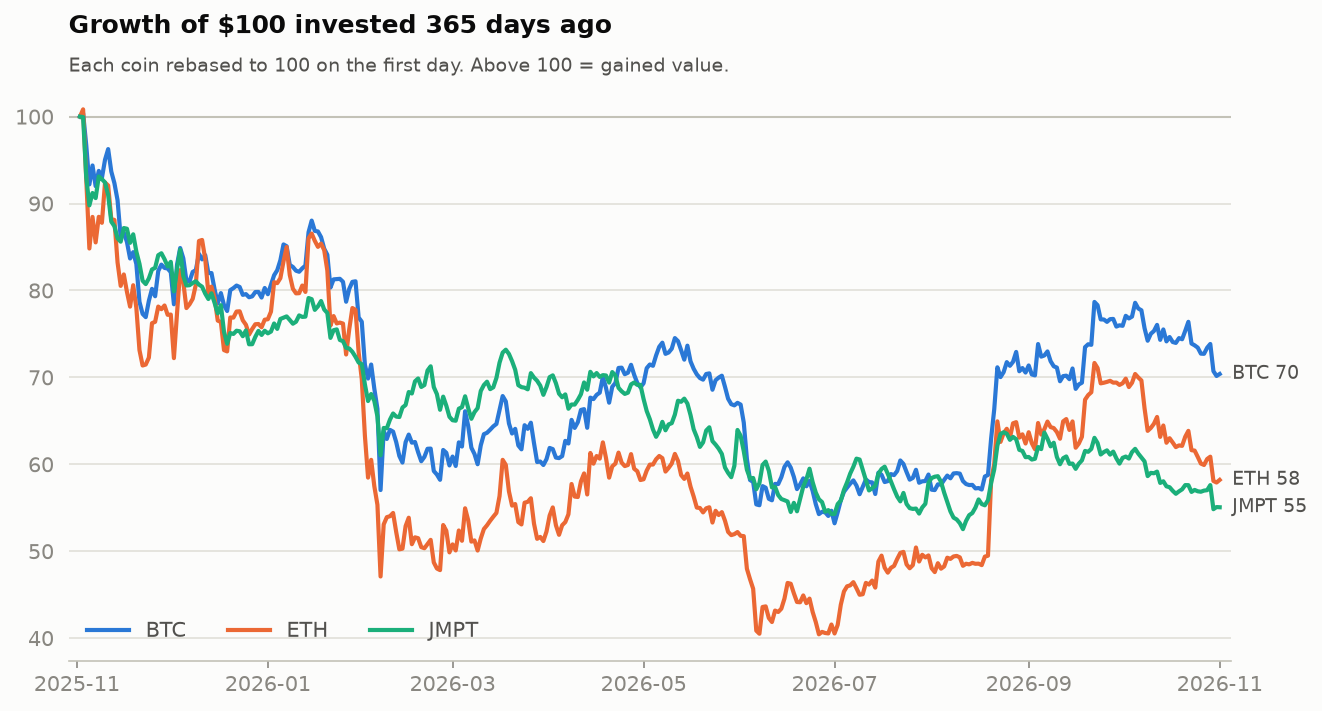
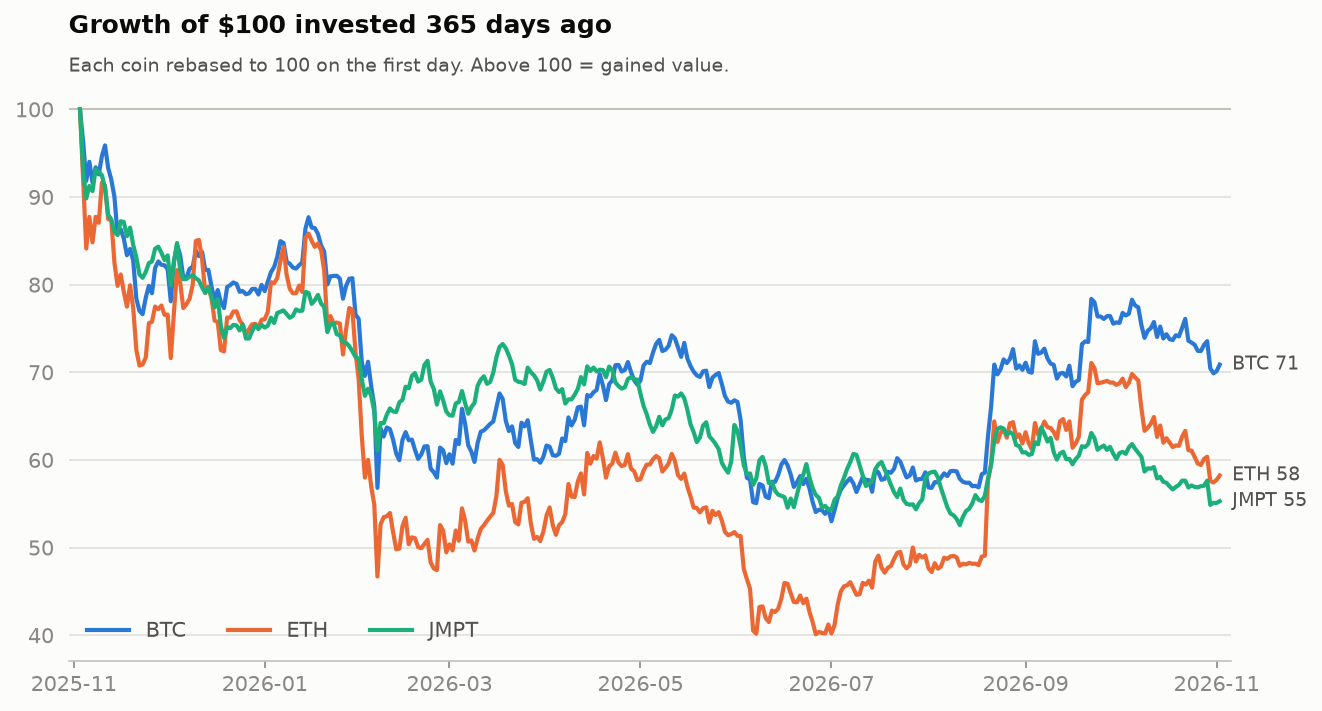
data: market update 2026-11-02

diff --git a/README.md b/README.md
@@ -9,13 +9,13 @@ The project compares two of the largest cryptocurrencies with a small-cap token:
 ## Latest stats
 
 <!-- STATS:START -->
-_Snapshot as of **2026-11-01 00:00 UTC**. Updated automatically every day._
+_Snapshot as of **2026-11-02 00:00 UTC**. Updated automatically every day._
 
 | Coin | Price | 1 day | 7 days | 30 days | 1 year | Volatility (30d) | Market cap |
 |:--|--:|--:|--:|--:|--:|--:|--:|
-| **BTC** Bitcoin | $77,474 | ▲ +0.3% | ▼ -4.1% | ▼ -8.7% | ▼ -29.3% | 29% | $1.56T |
-| **ETH** Ethereum | $2,254 | ▲ +0.5% | ▼ -4.3% | ▼ -16.7% | ▼ -41.4% | 37% | $275.40B |
-| **JMPT** JumpToken | $0.5176 | ▼ -0.0% | ▼ -3.2% | ▼ -9.6% | ▼ -45.0% | 24% | $7.64M |
+| **BTC** Bitcoin | $78,311 | ▲ +1.1% | ▼ -2.2% | ▼ -7.3% | ▼ -28.9% | 29% | $1.57T |
+| **ETH** Ethereum | $2,274 | ▲ +0.9% | ▼ -2.3% | ▼ -14.8% | ▼ -41.3% | 37% | $277.83B |
+| **JMPT** JumpToken | $0.5196 | ▲ +0.4% | ▼ -2.8% | ▼ -8.9% | ▼ -44.7% | 24% | $7.67M |
 <!-- STATS:END -->
 
 ## Charts
